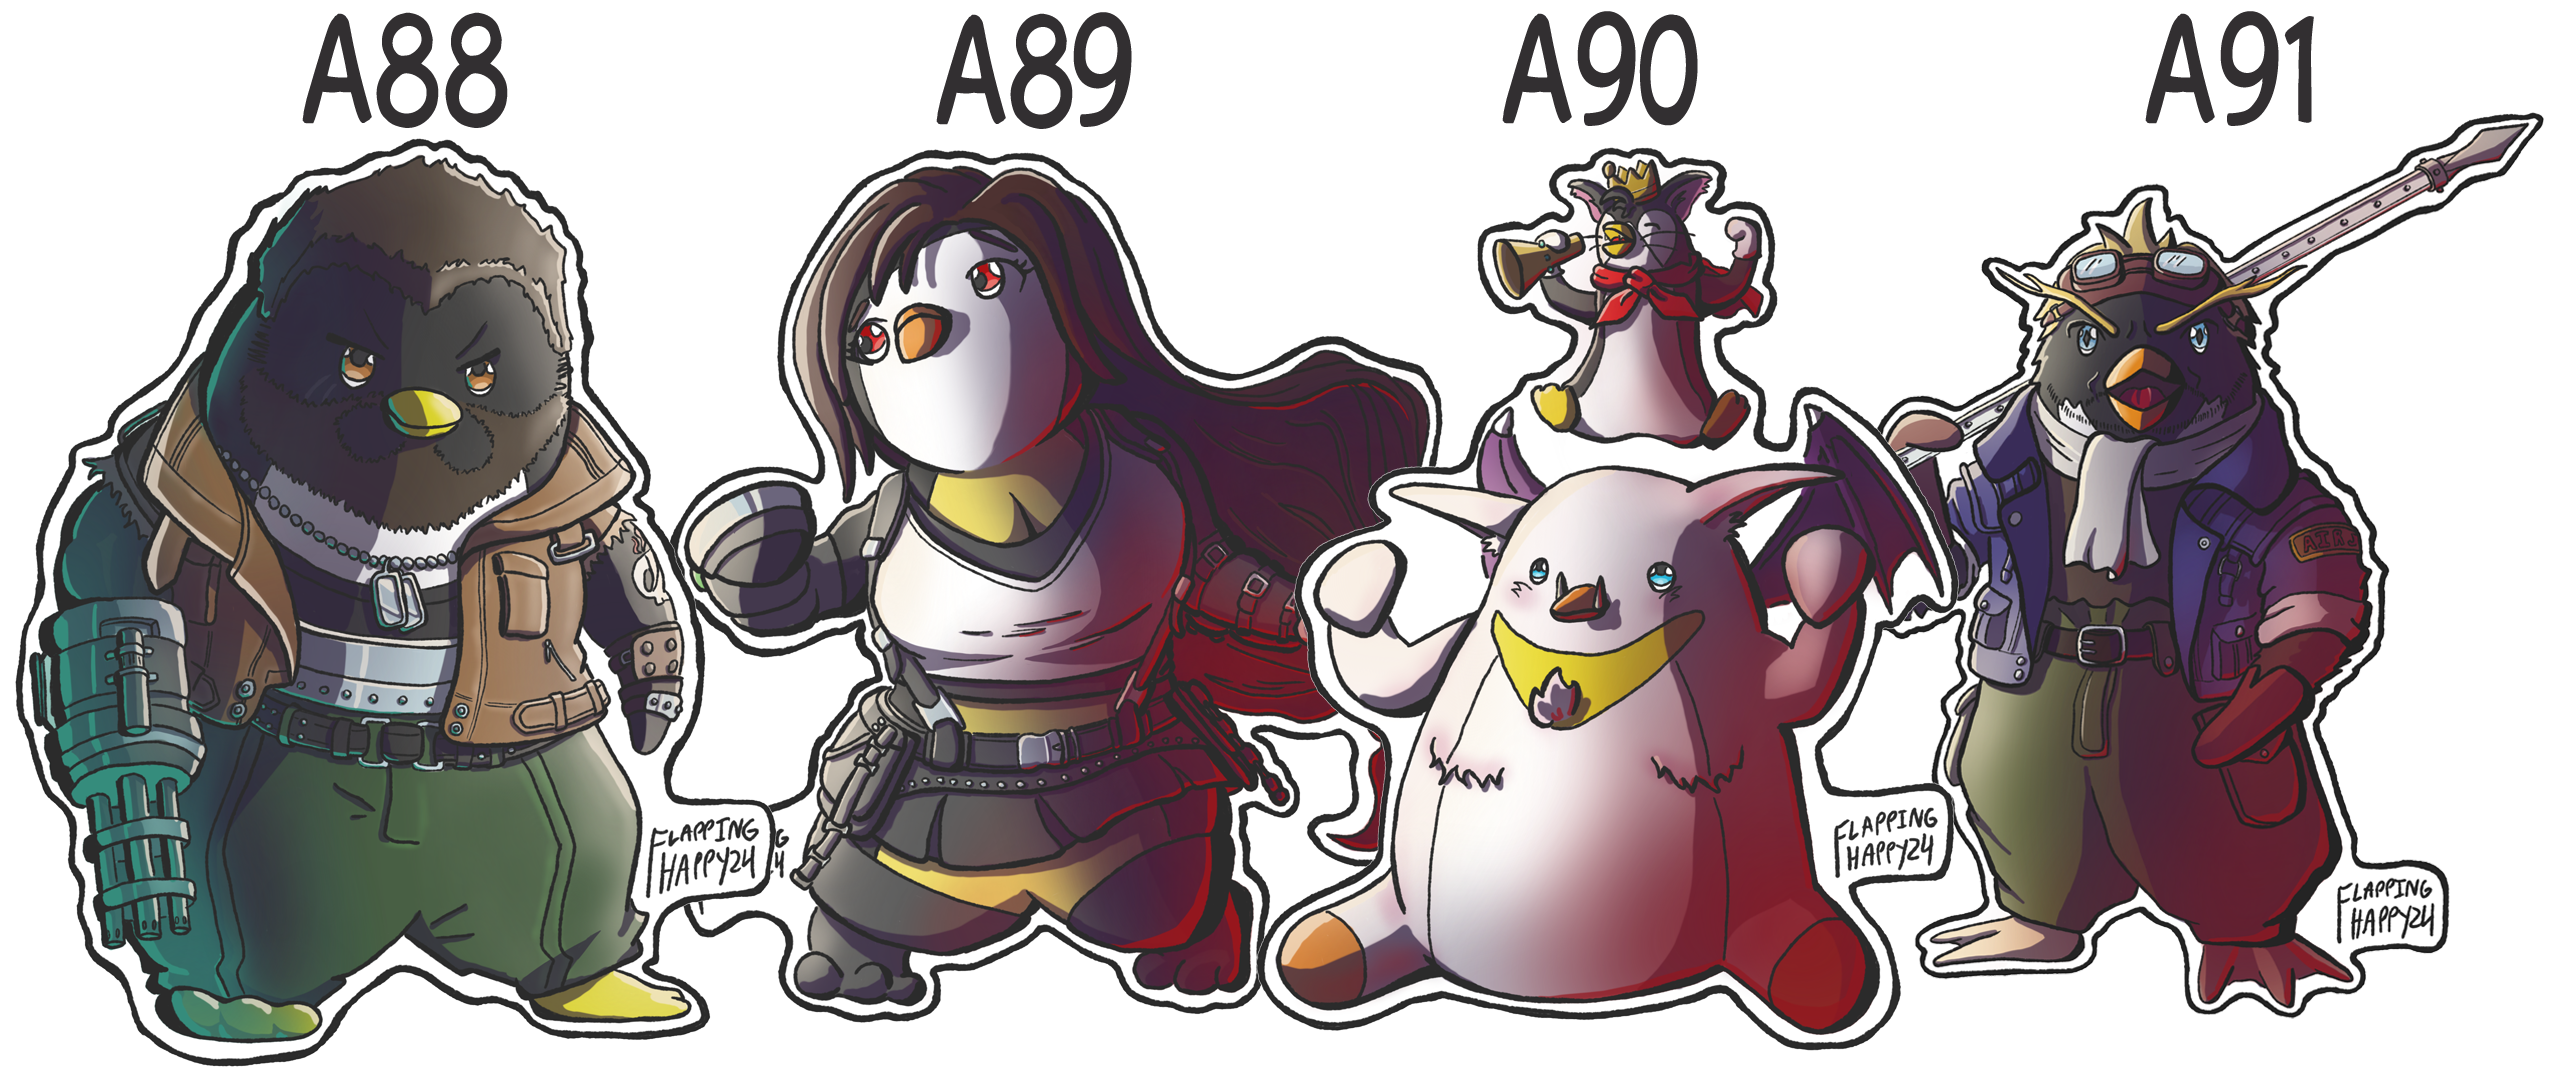
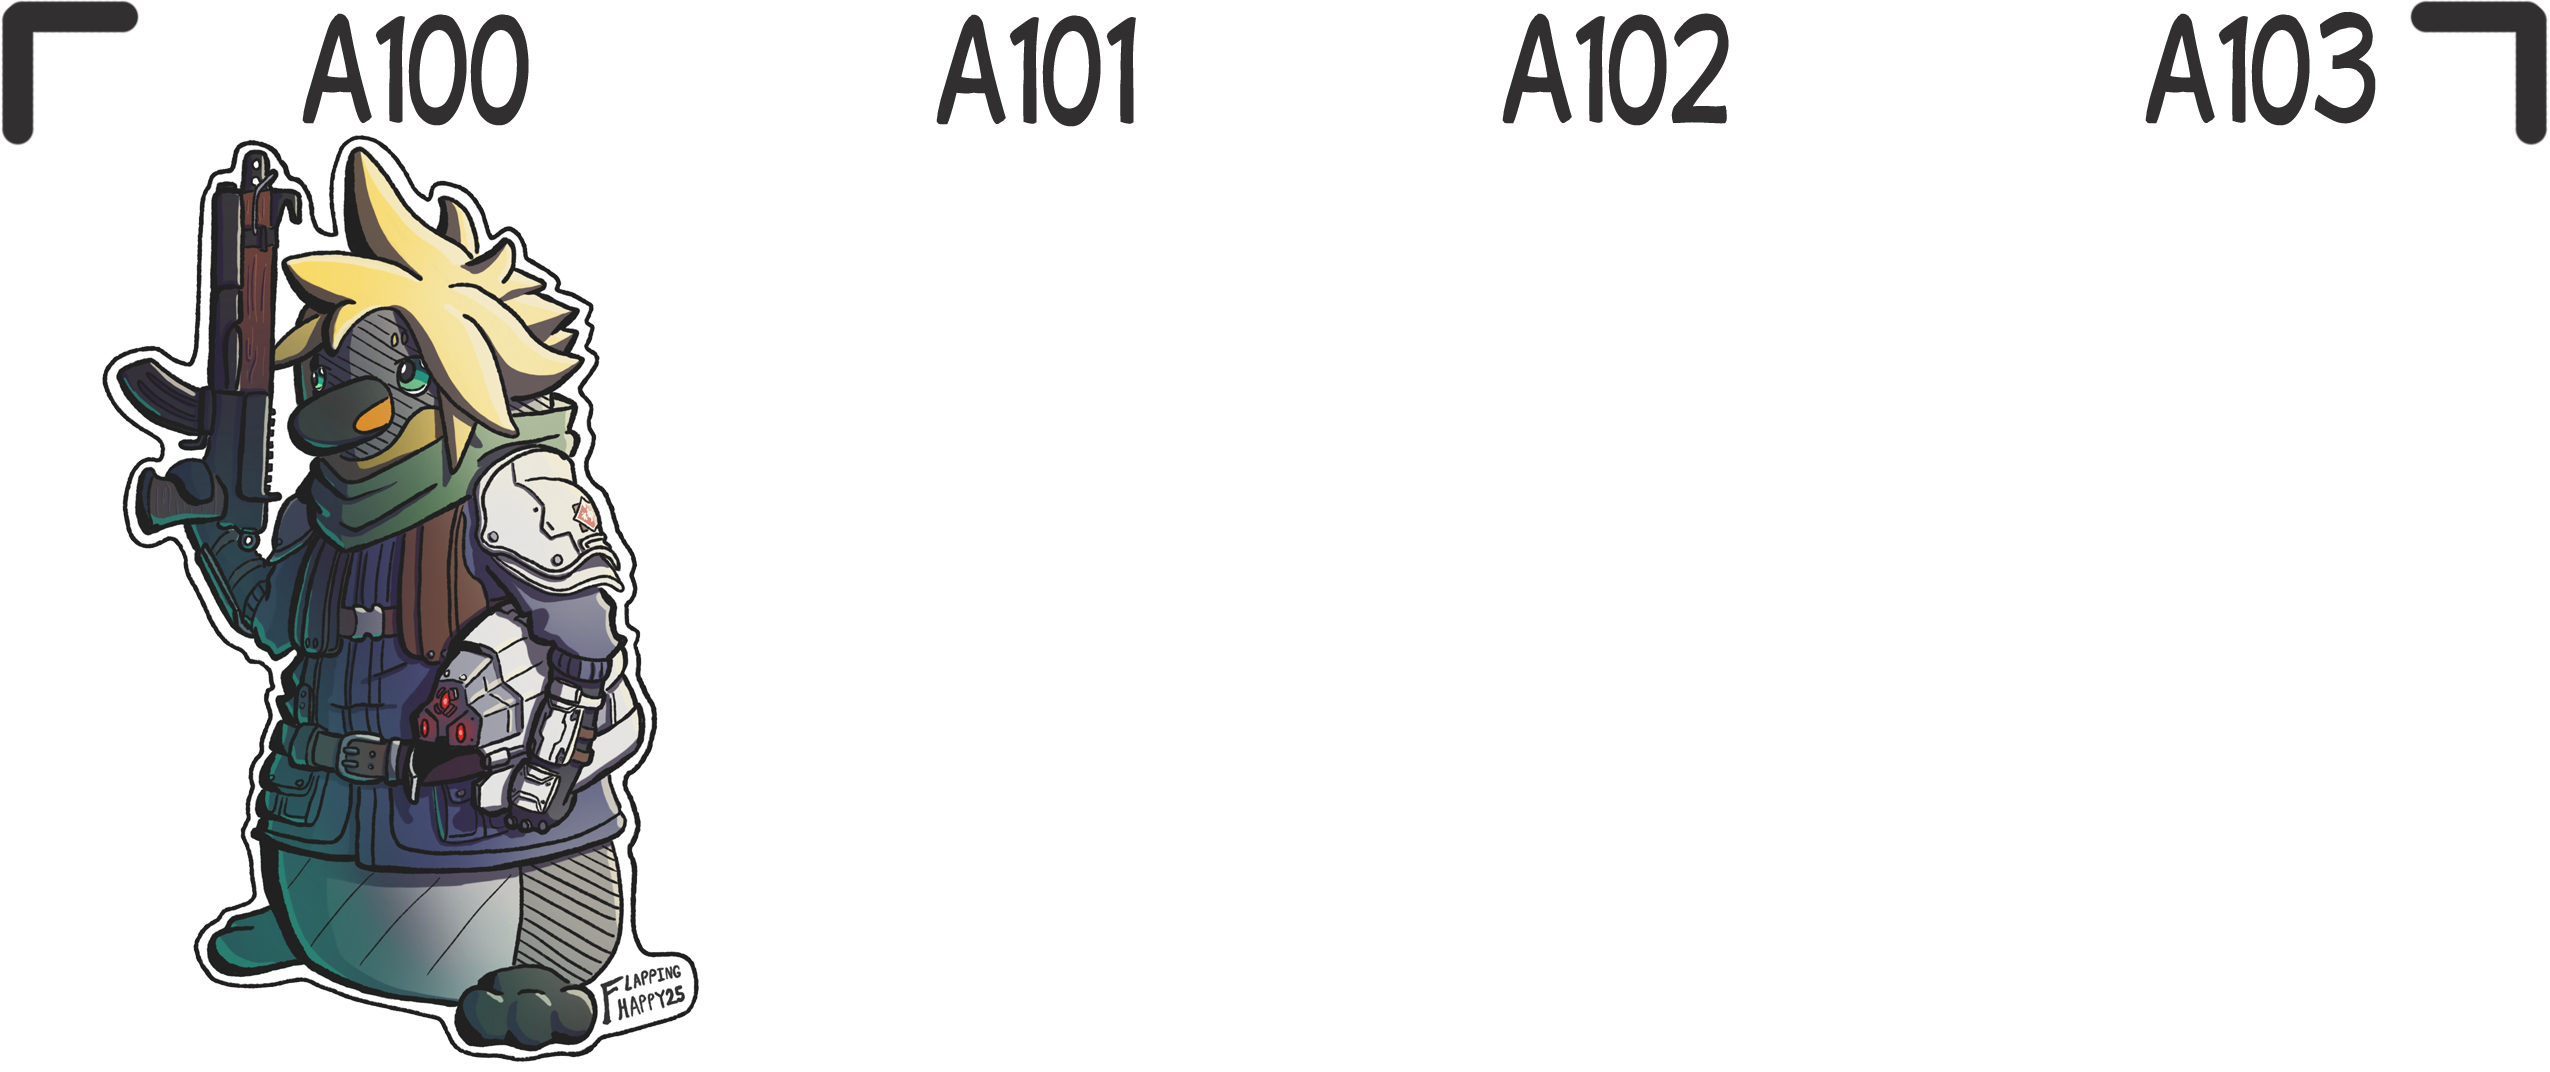
Add files via upload

diff --git a/shop.html b/shop.html
@@ -52,10 +52,10 @@
 		<a href="#top"><button id="topCollapseBtn" name="ArtNumbers" class="btn"  value="ArtNumbCollapse">
 			Collapse Art Numbers
 		</button></a>
-			<!-- 
+			<!-- -->
 			<img src="ArtNumBGNew.png" alt="artNum">
 			<img src="ArtNumBGNew2.png" alt="artNum"> 
-			-->
+			
 			<img src="ArtNumBG9.png" alt="artNum">
 			<img src="ArtNumBG8.png" alt="artNum">
 			<img src="ArtNumBG7.png" alt="artNum">
@@ -194,6 +194,7 @@
 						<option value="A097">A97</option>
 						<option value="A098">A98</option>
 						<option value="A099">A99</option>
+						<option value="A100">A100</option>
 					</select>
 					<br><br>
 					<button id="printArtBtn" name="PrintArt" class="formBtn"  value="PrintArt">Add to Cart</button>
@@ -371,6 +372,7 @@
 						<option value="A097">A97</option>
 						<option value="A098">A98</option>
 						<option value="A099">A99</option>
+						<option value="A100">A100</option>
 						<option value="S001">S1</option>
 						<option value="S002">S2</option>
 						<option value="S003">S3</option>
@@ -530,6 +532,7 @@
 						<option value="A097">A97</option>
 						<option value="A098">A98</option>
 						<option value="A099">A99</option>
+						<option value="A100">A100</option>
 						
 					</select>
 					<br><br>
